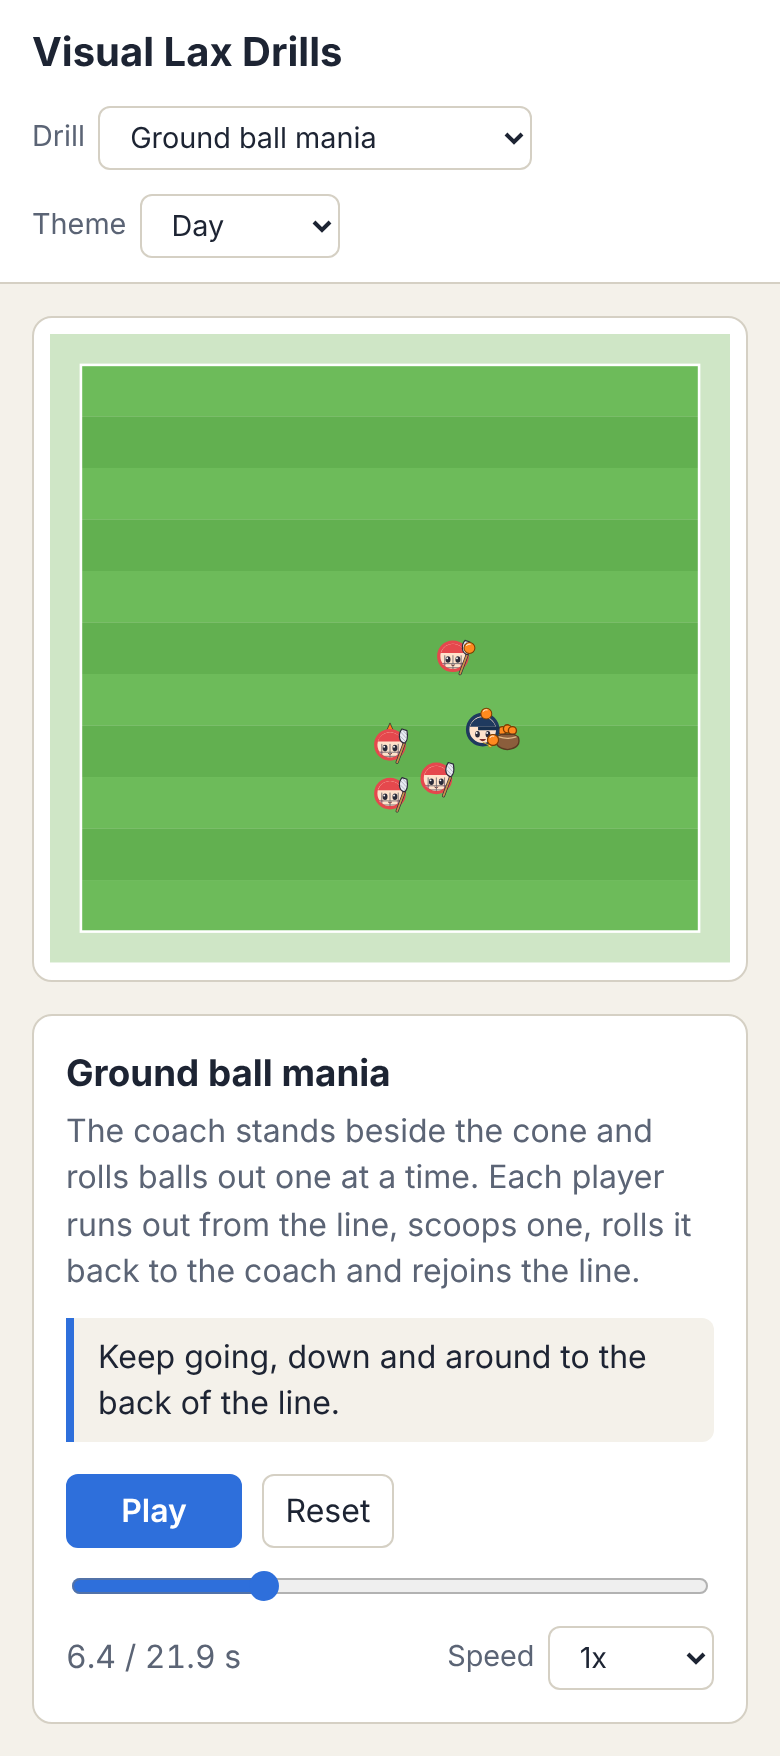
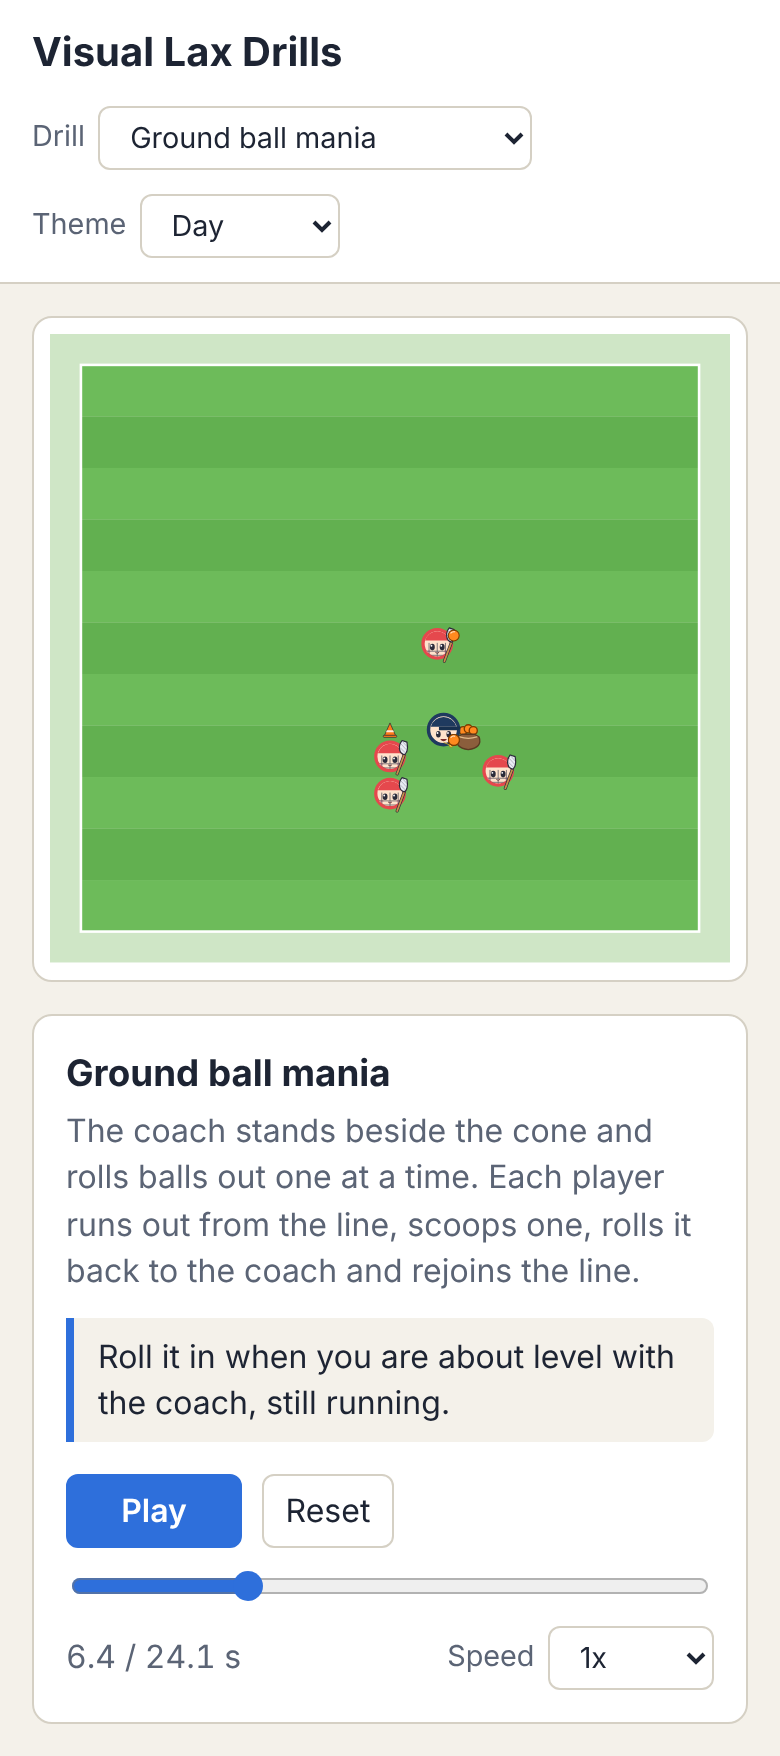
fix: coach beside the cone, players go around the coach in Ground ball mania
Put the coach back right beside the cone (5 yards, as before; I had moved
them to 9). The player now swings around the outside of the coach to get
back to the line, not through the gap between the coach and the cone, and
rolls the ball in about level with the coach (half a yard past their row),
still running. Players start 2.8 seconds apart, nobody goes faster than
6.5 yards a second, and six balls take about 24 seconds. Screenshots
remade.

AIA PAI SeCeNc Hin R Claude Code Web Sonnet 5.5 Medium v1.0

Vibe-Coder: Vibe-Coder 1.z3r0 <243014891+vibecoder-1z3r0@users.noreply.github.com>

diff --git a/src/js/drills.js b/src/js/drills.js
@@ -119,31 +119,31 @@ export const DRILLS = [
     goal: false,
     midfieldLabel: false,
     summary: "The coach stands beside the cone and rolls balls out one at a time. Each player runs out from the line, scoops one, rolls it back to the coach and rejoins the line.",
-    duration: 21.9,
+    duration: 24.1,
     actors: [
-      { id: "coach", kind: "coach", team: "none", keys: [k(0, 39, 35.4)] },
-      { id: "bag", kind: "ballbag", team: "none", keys: [k(0, 41.4, 36.2)] },
+      { id: "coach", kind: "coach", team: "none", keys: [k(0, 35.2, 35.4)] },
+      { id: "bag", kind: "ballbag", team: "none", keys: [k(0, 37.6, 36.2)] },
       { id: "cone", kind: "cone", team: "none", color: "orange", keys: [k(0, 30, 35.4)] },
-      { id: "p1", kind: "player", team: "a", keys: [k(0, 30, 38), k(1.0, 30, 38), k(1.8, 30, 33.5), k(3.4, 36.5, 26.7), k(4.3, 34.5, 30.7), k(4.9, 34.5, 34.4), k(5.8, 34.5, 39.4), k(7.6, 34.5, 41.6), k(8.5, 30, 41.6), k(9.2, 30, 41.6), k(9.9, 30, 38), k(11.4, 30, 38), k(12.2, 30, 33.5), k(13.8, 36.5, 26.7), k(14.7, 34.5, 30.7), k(15.3, 34.5, 34.4), k(16.2, 34.5, 39.4), k(18.0, 34.5, 45.2), k(18.9, 30, 45.2)] },
-      { id: "p2", kind: "player", team: "a", keys: [k(0, 30, 41.6), k(1.4, 30, 41.6), k(2.1, 30, 38), k(3.6, 30, 38), k(4.4, 30, 33.5), k(6.0, 37.4, 26.5), k(6.9, 34.5, 30.5), k(7.5, 34.5, 34.4), k(8.4, 34.5, 39.4), k(10.2, 34.5, 41.6), k(11.1, 30, 41.6), k(11.8, 30, 41.6), k(12.5, 30, 38), k(14.0, 30, 38), k(14.8, 30, 33.5), k(16.4, 37.4, 26.5), k(17.3, 34.5, 30.5), k(17.9, 34.5, 34.4), k(18.8, 34.5, 39.4), k(20.6, 34.5, 48.8), k(21.5, 30, 48.8)] },
-      { id: "p3", kind: "player", team: "a", keys: [k(0, 30, 45.2), k(1.4, 30, 45.2), k(2.1, 30, 41.6), k(4.0, 30, 41.6), k(4.7, 30, 38), k(6.2, 30, 38), k(7.0, 30, 33.5), k(8.6, 35.8, 27.0), k(9.5, 34.5, 31.0), k(10.1, 34.5, 34.4), k(11.0, 34.5, 39.4), k(12.8, 34.5, 41.6), k(13.7, 30, 41.6), k(14.4, 30, 41.6), k(15.1, 30, 38)] },
-      { id: "p4", kind: "player", team: "a", keys: [k(0, 30, 48.8), k(1.4, 30, 48.8), k(2.1, 30, 45.2), k(4.0, 30, 45.2), k(4.7, 30, 41.6), k(6.6, 30, 41.6), k(7.3, 30, 38), k(8.8, 30, 38), k(9.6, 30, 33.5), k(11.2, 37.0, 26.6), k(12.1, 34.5, 30.6), k(12.7, 34.5, 34.4), k(13.6, 34.5, 39.4), k(15.4, 34.5, 41.6), k(16.3, 30, 41.6)] },
-      { id: "ball", kind: "ball", team: "none", keys: [k(0, 40, 36.4), k(0.9, 40, 36.4), k(2.1, 38.1, 25.9), k(3.4, 38.1, 25.9), k(4.3, 36.1, 29.9), k(4.9, 36.1, 33.6), k(5.4, 40, 36.4), k(11.3, 40, 36.4), k(12.5, 38.1, 25.9), k(13.8, 38.1, 25.9), k(14.7, 36.1, 29.9), k(15.3, 36.1, 33.6), k(15.8, 40, 36.4)] },
-      { id: "ball2", kind: "ball", team: "none", keys: [k(0, 40, 36.4), k(3.5, 40, 36.4), k(4.7, 39.0, 25.7), k(6.0, 39.0, 25.7), k(6.9, 36.1, 29.7), k(7.5, 36.1, 33.6), k(8.0, 40, 36.4), k(13.9, 40, 36.4), k(15.1, 39.0, 25.7), k(16.4, 39.0, 25.7), k(17.3, 36.1, 29.7), k(17.9, 36.1, 33.6), k(18.4, 40, 36.4)] },
-      { id: "ball3", kind: "ball", team: "none", keys: [k(0, 40, 36.4), k(6.1, 40, 36.4), k(7.3, 37.4, 26.2), k(8.6, 37.4, 26.2), k(9.5, 36.1, 30.2), k(10.1, 36.1, 33.6), k(10.6, 40, 36.4)] },
-      { id: "ball4", kind: "ball", team: "none", keys: [k(0, 40, 36.4), k(8.7, 40, 36.4), k(9.9, 38.6, 25.8), k(11.2, 38.6, 25.8), k(12.1, 36.1, 29.8), k(12.7, 36.1, 33.6), k(13.2, 40, 36.4)] },
+      { id: "p1", kind: "player", team: "a", keys: [k(0, 30, 38), k(1.0, 30, 38), k(1.8, 30, 33.5), k(3.4, 33.0, 26.7), k(4.8, 40.5, 30.7), k(5.7, 40.5, 35.9), k(6.5, 40.5, 39.9), k(7.9, 40.5, 41.6), k(9.7, 30, 41.6), k(9.8, 30, 41.6), k(10.5, 30, 38), k(12.2, 30, 38), k(13.0, 30, 33.5), k(14.6, 33.0, 26.7), k(16.0, 40.5, 30.7), k(16.9, 40.5, 35.9), k(17.7, 40.5, 39.9), k(19.1, 40.5, 45.2), k(20.9, 30, 45.2)] },
+      { id: "p2", kind: "player", team: "a", keys: [k(0, 30, 41.6), k(1.4, 30, 41.6), k(2.1, 30, 38), k(3.8, 30, 38), k(4.6, 30, 33.5), k(6.2, 33.6, 26.5), k(7.6, 40.5, 30.5), k(8.5, 40.5, 35.9), k(9.3, 40.5, 39.9), k(10.7, 40.5, 41.6), k(12.5, 30, 41.6), k(12.6, 30, 41.6), k(13.3, 30, 38), k(15.0, 30, 38), k(15.8, 30, 33.5), k(17.4, 33.6, 26.5), k(18.8, 40.5, 30.5), k(19.7, 40.5, 35.9), k(20.5, 40.5, 39.9), k(21.9, 40.5, 48.8), k(23.7, 30, 48.8)] },
+      { id: "p3", kind: "player", team: "a", keys: [k(0, 30, 45.2), k(1.4, 30, 45.2), k(2.1, 30, 41.6), k(4.2, 30, 41.6), k(4.9, 30, 38), k(6.6, 30, 38), k(7.4, 30, 33.5), k(9.0, 32.4, 26.8), k(10.4, 40.5, 30.8), k(11.3, 40.5, 35.9), k(12.1, 40.5, 39.9), k(13.5, 40.5, 41.6), k(15.3, 30, 41.6), k(15.4, 30, 41.6), k(16.1, 30, 38)] },
+      { id: "p4", kind: "player", team: "a", keys: [k(0, 30, 48.8), k(1.4, 30, 48.8), k(2.1, 30, 45.2), k(4.2, 30, 45.2), k(4.9, 30, 41.6), k(7.0, 30, 41.6), k(7.7, 30, 38), k(9.4, 30, 38), k(10.2, 30, 33.5), k(11.8, 33.3, 26.6), k(13.2, 40.5, 30.6), k(14.1, 40.5, 35.9), k(14.9, 40.5, 39.9), k(16.3, 40.5, 41.6), k(18.1, 30, 41.6)] },
+      { id: "ball", kind: "ball", team: "none", keys: [k(0, 36.2, 36.4), k(0.9, 36.2, 36.4), k(2.1, 34.6, 25.9), k(3.4, 34.6, 25.9), k(4.8, 42.1, 29.9), k(5.7, 42.1, 35.1), k(6.2, 36.2, 36.4), k(12.1, 36.2, 36.4), k(13.3, 34.6, 25.9), k(14.6, 34.6, 25.9), k(16.0, 42.1, 29.9), k(16.9, 42.1, 35.1), k(17.4, 36.2, 36.4)] },
+      { id: "ball2", kind: "ball", team: "none", keys: [k(0, 36.2, 36.4), k(3.7, 36.2, 36.4), k(4.9, 35.2, 25.7), k(6.2, 35.2, 25.7), k(7.6, 42.1, 29.7), k(8.5, 42.1, 35.1), k(9.0, 36.2, 36.4), k(14.9, 36.2, 36.4), k(16.1, 35.2, 25.7), k(17.4, 35.2, 25.7), k(18.8, 42.1, 29.7), k(19.7, 42.1, 35.1), k(20.2, 36.2, 36.4)] },
+      { id: "ball3", kind: "ball", team: "none", keys: [k(0, 36.2, 36.4), k(6.5, 36.2, 36.4), k(7.7, 34.0, 26.0), k(9.0, 34.0, 26.0), k(10.4, 42.1, 30.0), k(11.3, 42.1, 35.1), k(11.8, 36.2, 36.4)] },
+      { id: "ball4", kind: "ball", team: "none", keys: [k(0, 36.2, 36.4), k(9.3, 36.2, 36.4), k(10.5, 34.9, 25.8), k(11.8, 34.9, 25.8), k(13.2, 42.1, 29.8), k(14.1, 42.1, 35.1), k(14.6, 36.2, 36.4)] },
     ],
     captions: [
-      { t: 0, text: "Four players line up behind the cone. The coach stands off to the side with the balls." },
+      { t: 0, text: "Four players line up behind the cone. The coach stands right beside the cone with the balls." },
       { t: 0.6, text: "Coach rolls a ball up the field, about 9 yards out." },
       { t: 1.6, text: "The first player runs through the cone and attacks the ball." },
       { t: 3.4, text: "Scoop it on the move: get low, stick down, and don't stop." },
-      { t: 3.6, text: "As the player scoops, the coach is already rolling the next ball out." },
-      { t: 4.1, text: "Cradle the ball and run it back down between the line and the coach." },
-      { t: 4.9, text: "Roll it in when you are nearly level with the coach, still running." },
-      { t: 6.2, text: "Keep going, down and around to the back of the line." },
-      { t: 12.5, text: "Around again, everyone circling the same way. Field as many ground balls as you can." },
-      { t: 19.5, text: "Six ground balls in about 21 seconds. Beat that next round." },
+      { t: 3.9, text: "As the player scoops, the coach is already rolling the next ball out." },
+      { t: 4.4, text: "Cradle the ball and swing around the outside of the coach." },
+      { t: 5.6, text: "Roll it in when you are about level with the coach, still running." },
+      { t: 6.8, text: "Keep going, down and around to the back of the line." },
+      { t: 13, text: "Around again, everyone circling the same way. Field as many ground balls as you can." },
+      { t: 22.5, text: "Six ground balls in about 24 seconds. Beat that next round." },
     ],
   },
 ];
